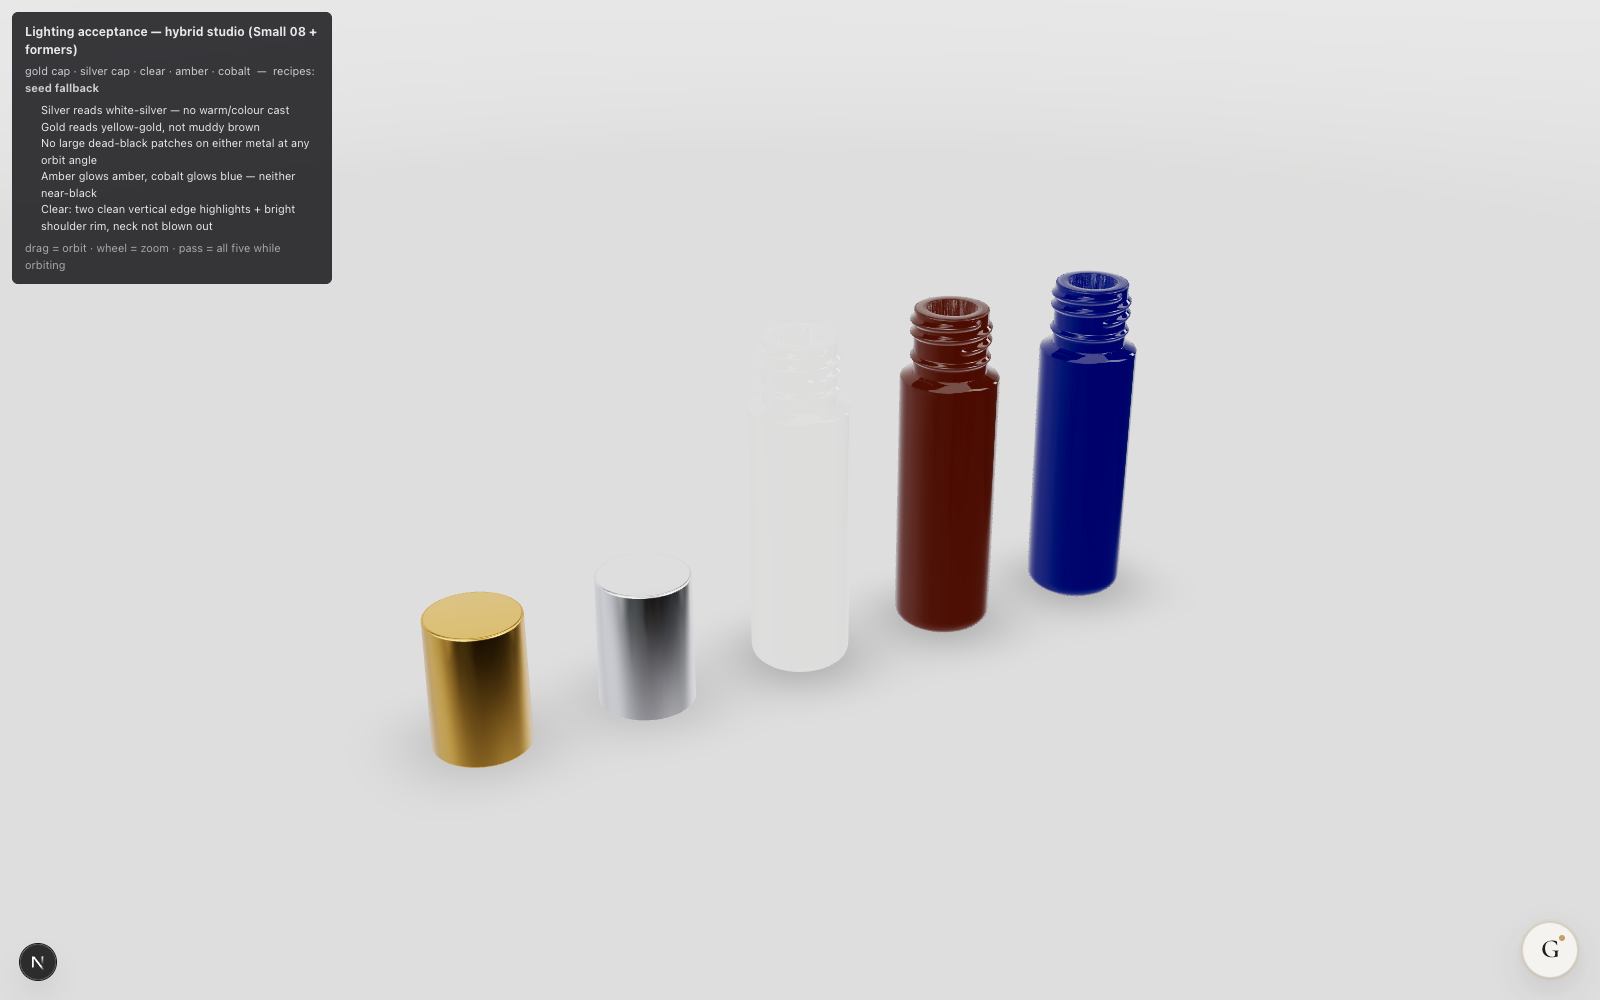
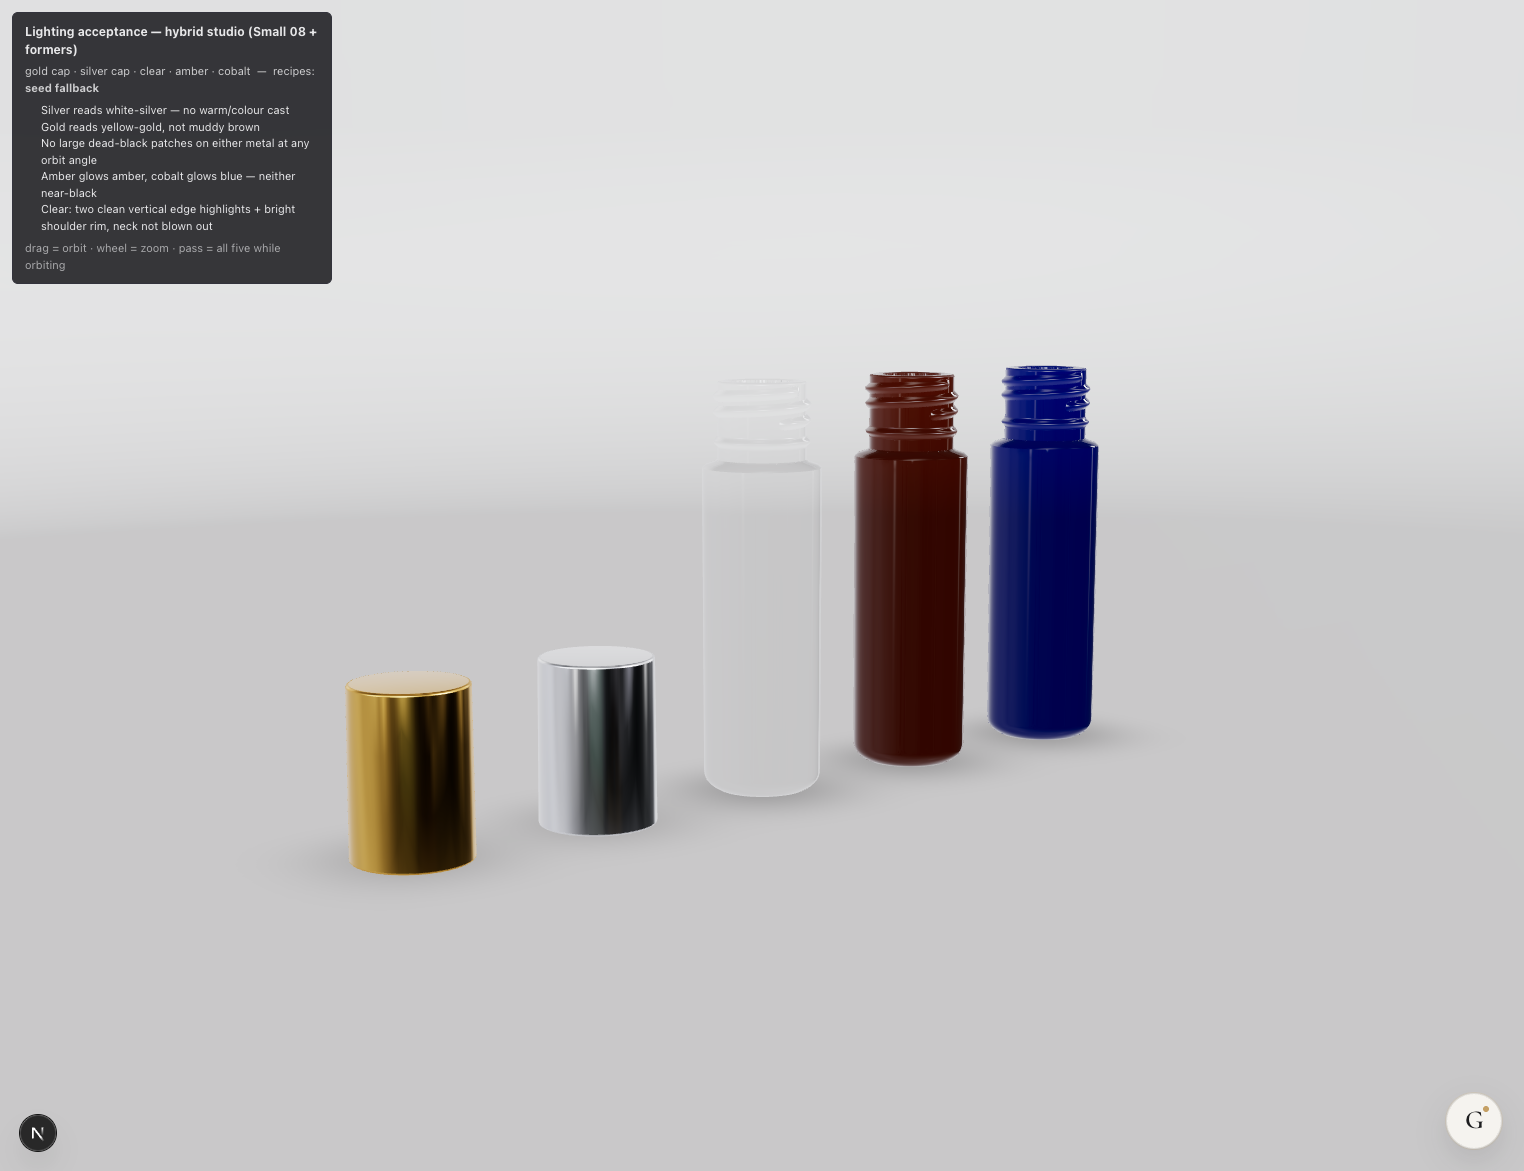
Approve the feathered hybrid studio; every glass colourway inherits it
Jordan at /dev/lighting-test: "the feathered softbox is much better" —
APPROVED_STUDIO flips to "hybrid-small08", so ProductStage (the PDP shell)
now lights amber, cobalt, clear, frosted and swirl with the ONE hybrid
environment. Verified live on the amber 9 ml roll-on PDP
(docs/configurator/lighting-test/pdp-amber-hybrid.png).

The emitters are no longer drei Lightformers: a Lightformer rect is a
hard-edged quad, and its edge mirrors off a cylinder as an abrupt razor
line — the "fake" read Jordan flagged, and the artefact studioPresets.ts
already documents. Each emitter is now a Gaussian x raised-cosine
feathered quad (exact zero at the rim, additive over the base HDRI), so
reflections grade and slide instead of printing lines. Geometry descends
from the handoff seeds; tuned values live in EMITTERS.

material_lock.py now pins the environment's in-code half: the new HDRI
joins TRACKED_FILES, and a studioEnvironment section snapshots
APPROVED_STUDIO plus every EMITTERS entry — a silent flip or emitter edit
is drift. RELOCK PENDING: `write` must run from the main checkout after
tonight's closure GLBs land there (the current lock references closure
files newer than any commit; writing from this tree would stamp stale
hashes over them).

Metals keep useMetalStudio for now — Jordan's approval named the glass
colourways; unifying metals under the one env is the remaining step of the
handoff architecture and its own approval.
[…]

diff --git a/src/components/products/StudioEnvironment.tsx b/src/components/products/StudioEnvironment.tsx
@@ -5,54 +5,131 @@
  *
  * Exactly ONE environment lights the whole scene: a neutral base HDRI for
  * full mirror coverage (metals must never orbit into a dead-black void, and
- * silver only stays silver under strictly neutral light), plus Lightformers
- * for the deliberate shapes — vertical strips for clear-glass edge
+ * silver only stays silver under strictly neutral light), plus in-scene
+ * emitters for the deliberate shapes — vertical strips for clear-glass edge
  * definition, an overhead softbox for cap tops and shoulders, and a broad
  * dim backlight so amber/cobalt transmit their colour instead of reading
  * near-black. Everything renders into ONE cubemap; per-finish variation
  * lives in material recipes (envMapIntensity, roughness…), never in
  * swapping environments.
  *
+ * WHY THESE ARE NOT drei <Lightformer>s: a Lightformer rect is a hard-edged
+ * quad, and a hard edge mirrors off a cylinder as an abrupt razor line —
+ * the exact "fake" read Jordan flagged (and the artefact the lane already
+ * documented in studioPresets.ts). The lane's fix is WIDER, FEATHERED
+ * sources: each emitter here is a quad carrying a Gaussian falloff texture
+ * (bright core, soft skirts), additively blended over the base HDRI, so its
+ * reflection is a gradient that slides as the bottle turns.
+ *
  * Base HDRI: Poly Haven "Studio Small 08" (CC0), 1k — lighting-only, never
  * shown as background — self-hosted at public/env/ (no runtime CDN
  * dependency). Same-family fallbacks if the look is rejected:
  * white_home_studio (more contrast), pav_studio_03 (softer).
  *
- * Every Lightformer number below is a SEED — tuning intensity/position/
- * scale, or adding/removing a former, is expected; commit tuned values
- * here (no magic local state). NOT allowed without a founder decision:
- * a second environment, per-material envMap overrides, or non-neutral
+ * APPROVED 2026-08-31 (Jordan, at /dev/lighting-test: "the feathered
+ * softbox is much better") — APPROVED_STUDIO points at "hybrid-small08",
+ * so this IS the shipping environment for every glass colourway. The
+ * EMITTERS values and the HDRI hash are pinned by material_lock.py: any
+ * change here is drift until Jordan re-approves and the lock is rewritten
+ * in the same commit. NOT allowed without a founder decision: a second
+ * environment, per-material envMap overrides, or non-neutral
  * (coloured/warm) light colours.
- *
- * Ships only through the founder gate: /dev/lighting-test must pass all
- * five criteria (see that route), then APPROVED_STUDIO flips to the
- * "hybrid-small08" preset — until then the approved studio keeps rendering
- * in the PDP.
  */
 
-import { Environment, Lightformer } from "@react-three/drei";
+import { useMemo } from "react";
+import { Environment } from "@react-three/drei";
+import * as THREE from "three";
+
+type Emitter = {
+  /** direction from origin; the quad faces the origin */
+  position: [number, number, number];
+  /** quad size (world units in the env portal) */
+  scale: [number, number];
+  /** HDR peak brightness at the Gaussian core */
+  intensity: number;
+  /** Gaussian falloff (fraction of the quad's half-extent) per axis —
+   *  smaller = tighter hot core, larger = softer wash */
+  sigma: [number, number];
+};
+
+/** The four deliberate shapes. Descended from the handoff's Lightformer
+ *  seeds (strips 3@z=+2 → 4.5@z=±1 → feathered); geometry unchanged. */
+const EMITTERS: Emitter[] = [
+  // left + right vertical strips: clear-glass edge highlights, graded
+  // sheens (not stripes) in the metal caps
+  { position: [-4, 2, 1], scale: [1.6, 8], intensity: 6, sigma: [0.3, 0.55] },
+  { position: [4, 2, 1], scale: [1.6, 8], intensity: 6, sigma: [0.3, 0.55] },
+  // overhead softbox: cap tops and bottle shoulders
+  { position: [0, 6, 0], scale: [6, 3], intensity: 2.5, sigma: [0.45, 0.45] },
+  // broad dim backlight: amber/cobalt transmit instead of reading black
+  { position: [0, 2, -6], scale: [8, 6], intensity: 1.4, sigma: [0.55, 0.55] },
+];
+
+/** Per-axis Gaussian × raised-cosine window, baked to a sprite. The window
+ *  forces EXACT zero at the quad rim whatever the sigma, so no emitter can
+ *  ever print a hard boundary. 8-bit is plenty after the 512px cubemap +
+ *  PMREM blur. */
+function makeFeatherTexture(sigma: [number, number]): THREE.Texture {
+  const SIZE = 256;
+  const canvas = document.createElement("canvas");
+  canvas.width = canvas.height = SIZE;
+  const ctx = canvas.getContext("2d") as CanvasRenderingContext2D;
+  const img = ctx.createImageData(SIZE, SIZE);
+  const window1 = (t: number) => {
+    // 1 inside |t|<0.7, cosine roll to 0 at |t|=1
+    const a = (Math.min(1, Math.abs(t)) - 0.7) / 0.3;
+    return a <= 0 ? 1 : 0.5 + 0.5 * Math.cos(Math.PI * a);
+  };
+  for (let y = 0; y < SIZE; y++) {
+    for (let x = 0; x < SIZE; x++) {
+      const u = (x / (SIZE - 1)) * 2 - 1;
+      const v = (y / (SIZE - 1)) * 2 - 1;
+      const g =
+        Math.exp(-(u * u) / (2 * sigma[0] * sigma[0])) *
+        Math.exp(-(v * v) / (2 * sigma[1] * sigma[1])) *
+        window1(u) * window1(v);
+      const i = (y * SIZE + x) * 4;
+      const b = Math.round(255 * g);
+      img.data[i] = img.data[i + 1] = img.data[i + 2] = b;
+      img.data[i + 3] = b;
+    }
+  }
+  ctx.putImageData(img, 0, 0);
+  const tex = new THREE.CanvasTexture(canvas);
+  tex.colorSpace = THREE.NoColorSpace;
+  return tex;
+}
+
+function SoftEmitter({ emitter }: { emitter: Emitter }) {
+  const { position, scale, intensity, sigma } = emitter;
+  const material = useMemo(() => {
+    const m = new THREE.MeshBasicMaterial({
+      map: makeFeatherTexture(sigma),
+      transparent: true,
+      blending: THREE.AdditiveBlending, // adds light over the base HDRI
+      depthWrite: false,
+      side: THREE.FrontSide,
+      toneMapped: false,
+    });
+    m.color.setScalar(intensity); // HDR: the env portal renders half-float
+    return m;
+    // sigma is a tuple literal from EMITTERS — stringify for stable deps
+  }, [intensity, sigma[0], sigma[1]]); // eslint-disable-line react-hooks/exhaustive-deps
+  return (
+    <mesh position={position} scale={[scale[0], scale[1], 1]}
+          onUpdate={(self) => self.lookAt(0, 0, 0)}>
+      <planeGeometry />
+      <primitive object={material} attach="material" />
+    </mesh>
+  );
+}
 
 export function StudioEnvironment() {
-    return (
-        <Environment files="/env/studio_small_08_1k.hdr" resolution={512}>
-            {/* Left + right vertical strips: clear-glass edge highlights,
-                clean stripes in metal caps. Tuned from the seed (3 @ z=+2):
-                intensity 4.5 so the lines survive the bright cove backdrop;
-                z=+1 places the specular line near the glass SILHOUETTE while
-                still filling the metals' camera-facing band (z=0 left it
-                dark, z=+2 pulled the lines two-thirds inboard). */}
-            <Lightformer form="rect" intensity={4.5} color="white"
-                         scale={[1, 8, 1]} position={[-4, 2, 1]} target={[0, 0, 0]} />
-            <Lightformer form="rect" intensity={4.5} color="white"
-                         scale={[1, 8, 1]} position={[4, 2, 1]} target={[0, 0, 0]} />
-            {/* Overhead softbox: cap tops and bottle shoulders */}
-            <Lightformer form="rect" intensity={2} color="white"
-                         scale={[6, 3, 1]} position={[0, 6, 0]}
-                         rotation={[-Math.PI / 2, 0, 0]} />
-            {/* Broad dim backlight panel: makes amber/cobalt transmit their
-                colour instead of reading black */}
-            <Lightformer form="rect" intensity={1.2} color="white"
-                         scale={[8, 6, 1]} position={[0, 2, -6]} target={[0, 0, 0]} />
-        </Environment>
-    );
+  return (
+    <Environment files="/env/studio_small_08_1k.hdr" resolution={512}>
+      {EMITTERS.map((e, i) => (
+        <SoftEmitter key={i} emitter={e} />
+      ))}
+    </Environment>
+  );
 }

diff --git a/src/lib/materials/studioPresets.ts b/src/lib/materials/studioPresets.ts
@@ -117,17 +117,20 @@ export const STUDIO_PRESETS: Record<StudioPresetId, StudioPreset> = {
     toneMappingExposure: 0.91, // = RENDER_EXPOSURE; exposure is pinned globally
     backdrop: "#e9e6e0",
     provenance:
-      "CANDIDATE single environment for the whole scene (2026-08-31 handoff): " +
-      "Poly Haven studio_small_08 (CC0, 1k, self-hosted — no CDN preset) as " +
-      "the neutral coverage base, COMBINED in one cubemap with four " +
-      "Lightformers (StudioEnvironment.tsx): L/R vertical strips for " +
+      "APPROVED STUDIO as of 2026-08-31 (Jordan, at /dev/lighting-test: " +
+      "'the feathered softbox is much better' — glass colourways inherit). " +
+      "The single environment for the whole scene, per the studio-lighting " +
+      "handoff: Poly Haven studio_small_08 (CC0, 1k, self-hosted — no CDN " +
+      "preset) as the neutral coverage base, COMBINED in one cubemap with " +
+      "four FEATHERED softbox emitters (StudioEnvironment.tsx EMITTERS — " +
+      "Gaussian-windowed quads; the first cut used hard-edged drei " +
+      "Lightformer rects and their edges printed razor lines down the " +
+      "cylinders, the documented banned artefact): L/R vertical strips for " +
       "clear-glass edges, overhead softbox for cap tops, broad dim backlight " +
-      "so amber/cobalt transmit. One env, no per-material envMap overrides; " +
-      "per-finish variation lives in material recipes (Convex). The strips " +
-      "knowingly test the banned-artefact law (narrow sources stripe " +
-      "cylinders) — Jordan judges at /dev/lighting-test before this can " +
-      "become APPROVED_STUDIO.",
+      "so amber/cobalt transmit. Per-finish variation lives in material " +
+      "recipes, never in swapping environments. material_lock.py pins the " +
+      "HDRI hash, the EMITTERS values, and this flip.",
   },
 };
 
-export const APPROVED_STUDIO: StudioPresetId = "room";
+export const APPROVED_STUDIO: StudioPresetId = "hybrid-small08";

diff --git a/pipeline/paper-doll-3d/scripts/material_lock.py b/pipeline/paper-doll-3d/scripts/material_lock.py
@@ -26,6 +26,7 @@ ROOT = pathlib.Path(__file__).resolve().parents[3]
 LOCK = ROOT / "public" / "models" / "materials.lock.json"
 
 TRACKED_FILES = [
+    "public/env/studio_small_08_1k.hdr",
     "public/models/studio-universal.hdr",
     "public/models/studio-mono.hdr",
     "public/models/studio-metal-key.hdr",
@@ -107,6 +108,23 @@ def presets() -> dict:
         out[pid] = vals
     return out
 
+def studio_environment() -> dict:
+    """The hybrid studio's OTHER half: the emitter values live in TSX, not
+    an HDRI, so the lock pins them the way it pins glass-preset numbers —
+    plus which preset production ships (a silent flip is drift too)."""
+    out = {}
+    m = re.search(r'APPROVED_STUDIO: StudioPresetId = "([a-z0-9-]+)"',
+                  (ROOT / "src/lib/materials/studioPresets.ts").read_text())
+    out["approvedStudio"] = m.group(1) if m else "UNPARSEABLE"
+    env_src = (ROOT / "src/components/products/StudioEnvironment.tsx").read_text()
+    emitters = re.findall(
+        r"\{ position: \[([^\]]+)\], scale: \[([^\]]+)\], "
+        r"intensity: ([^,]+), sigma: \[([^\]]+)\] \}", env_src)
+    for i, (pos, scale, inten, sigma) in enumerate(emitters):
+        out[f"emitter{i}"] = (f"pos[{pos}] scale[{scale}] "
+                              f"intensity {inten.strip()} sigma[{sigma}]")
+    return out
+
 def snapshot() -> dict:
     mats = json.loads((ROOT / "public/models/materials.json").read_text())["materials"]
     return {
@@ -119,6 +137,7 @@ def snapshot() -> dict:
             if k.startswith(TRACKED_MATERIALS_PREFIXES)
         },
         "glassPresets": presets(),
+        "studioEnvironment": studio_environment(),
     }
 
 def main():
@@ -145,6 +164,11 @@ def main():
                            for kk in set(v) | set(cur or {})
                            if v.get(kk) != (cur or {}).get(kk)]
                 drift.append(f"{section}.{k}: " + "; ".join(changed))
+    # the hybrid studio's in-code half (older locks predate the section)
+    for k, v in old.get("studioEnvironment", {}).items():
+        cur = now["studioEnvironment"].get(k)
+        if cur != v:
+            drift.append(f"studioEnvironment.{k}: {v!r} -> {cur!r}")
     # library-anchor check: clear must remain THE canonical measured glass
     lib = json.loads((ROOT / "data/materials/physicallybased-library.json").read_text())
     g = lib["glass.glass"]["values"]
